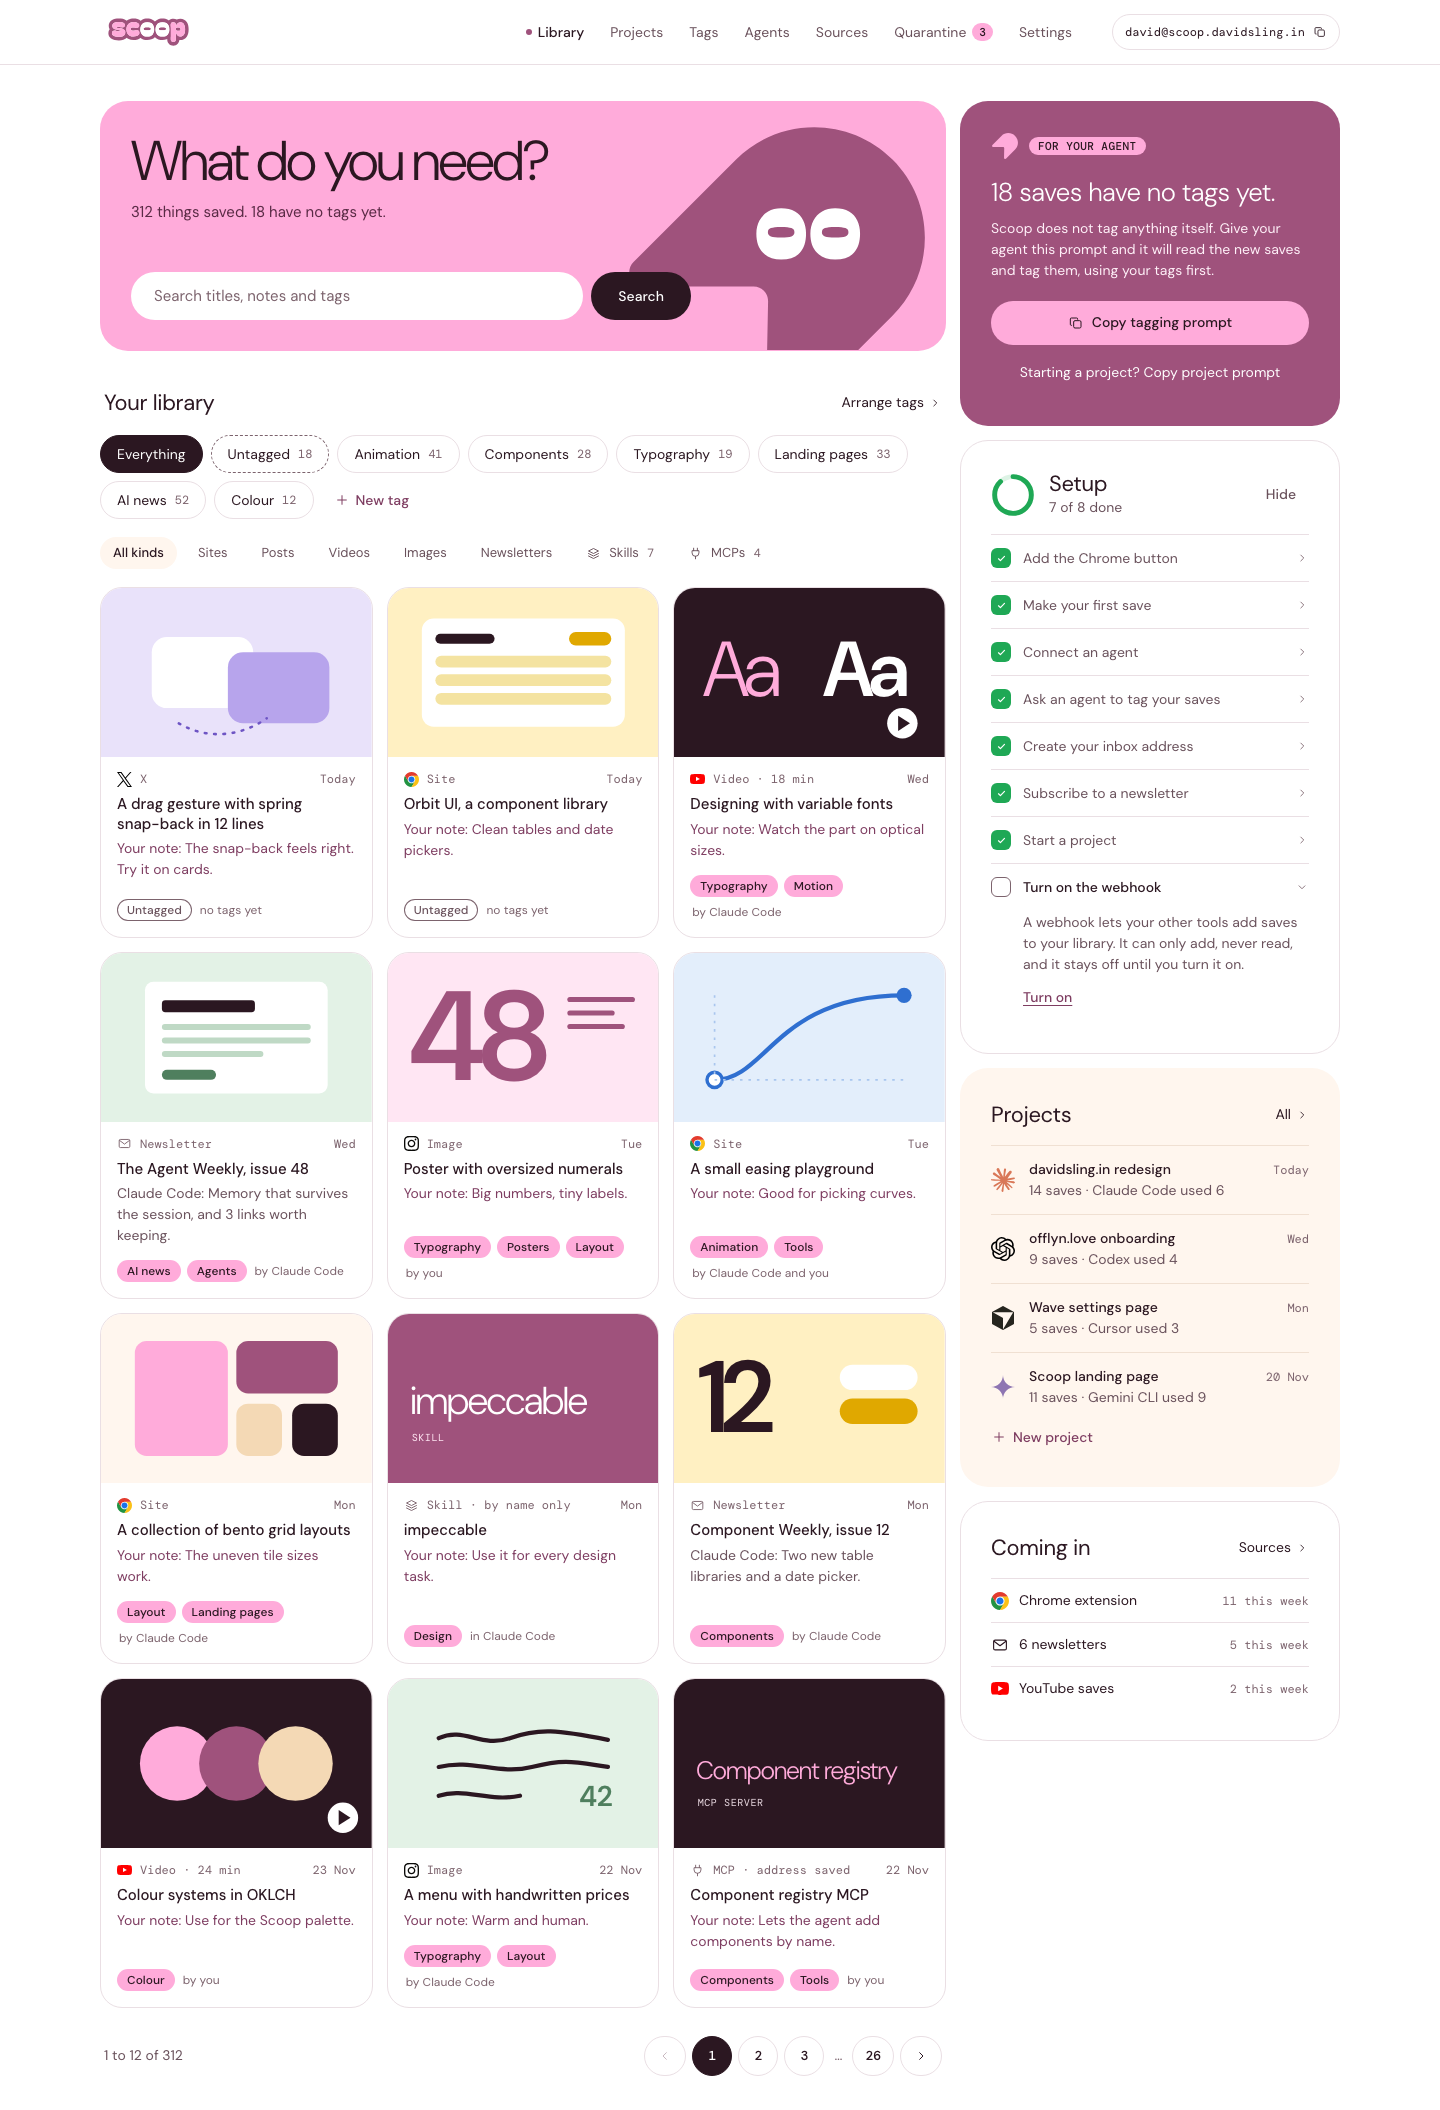
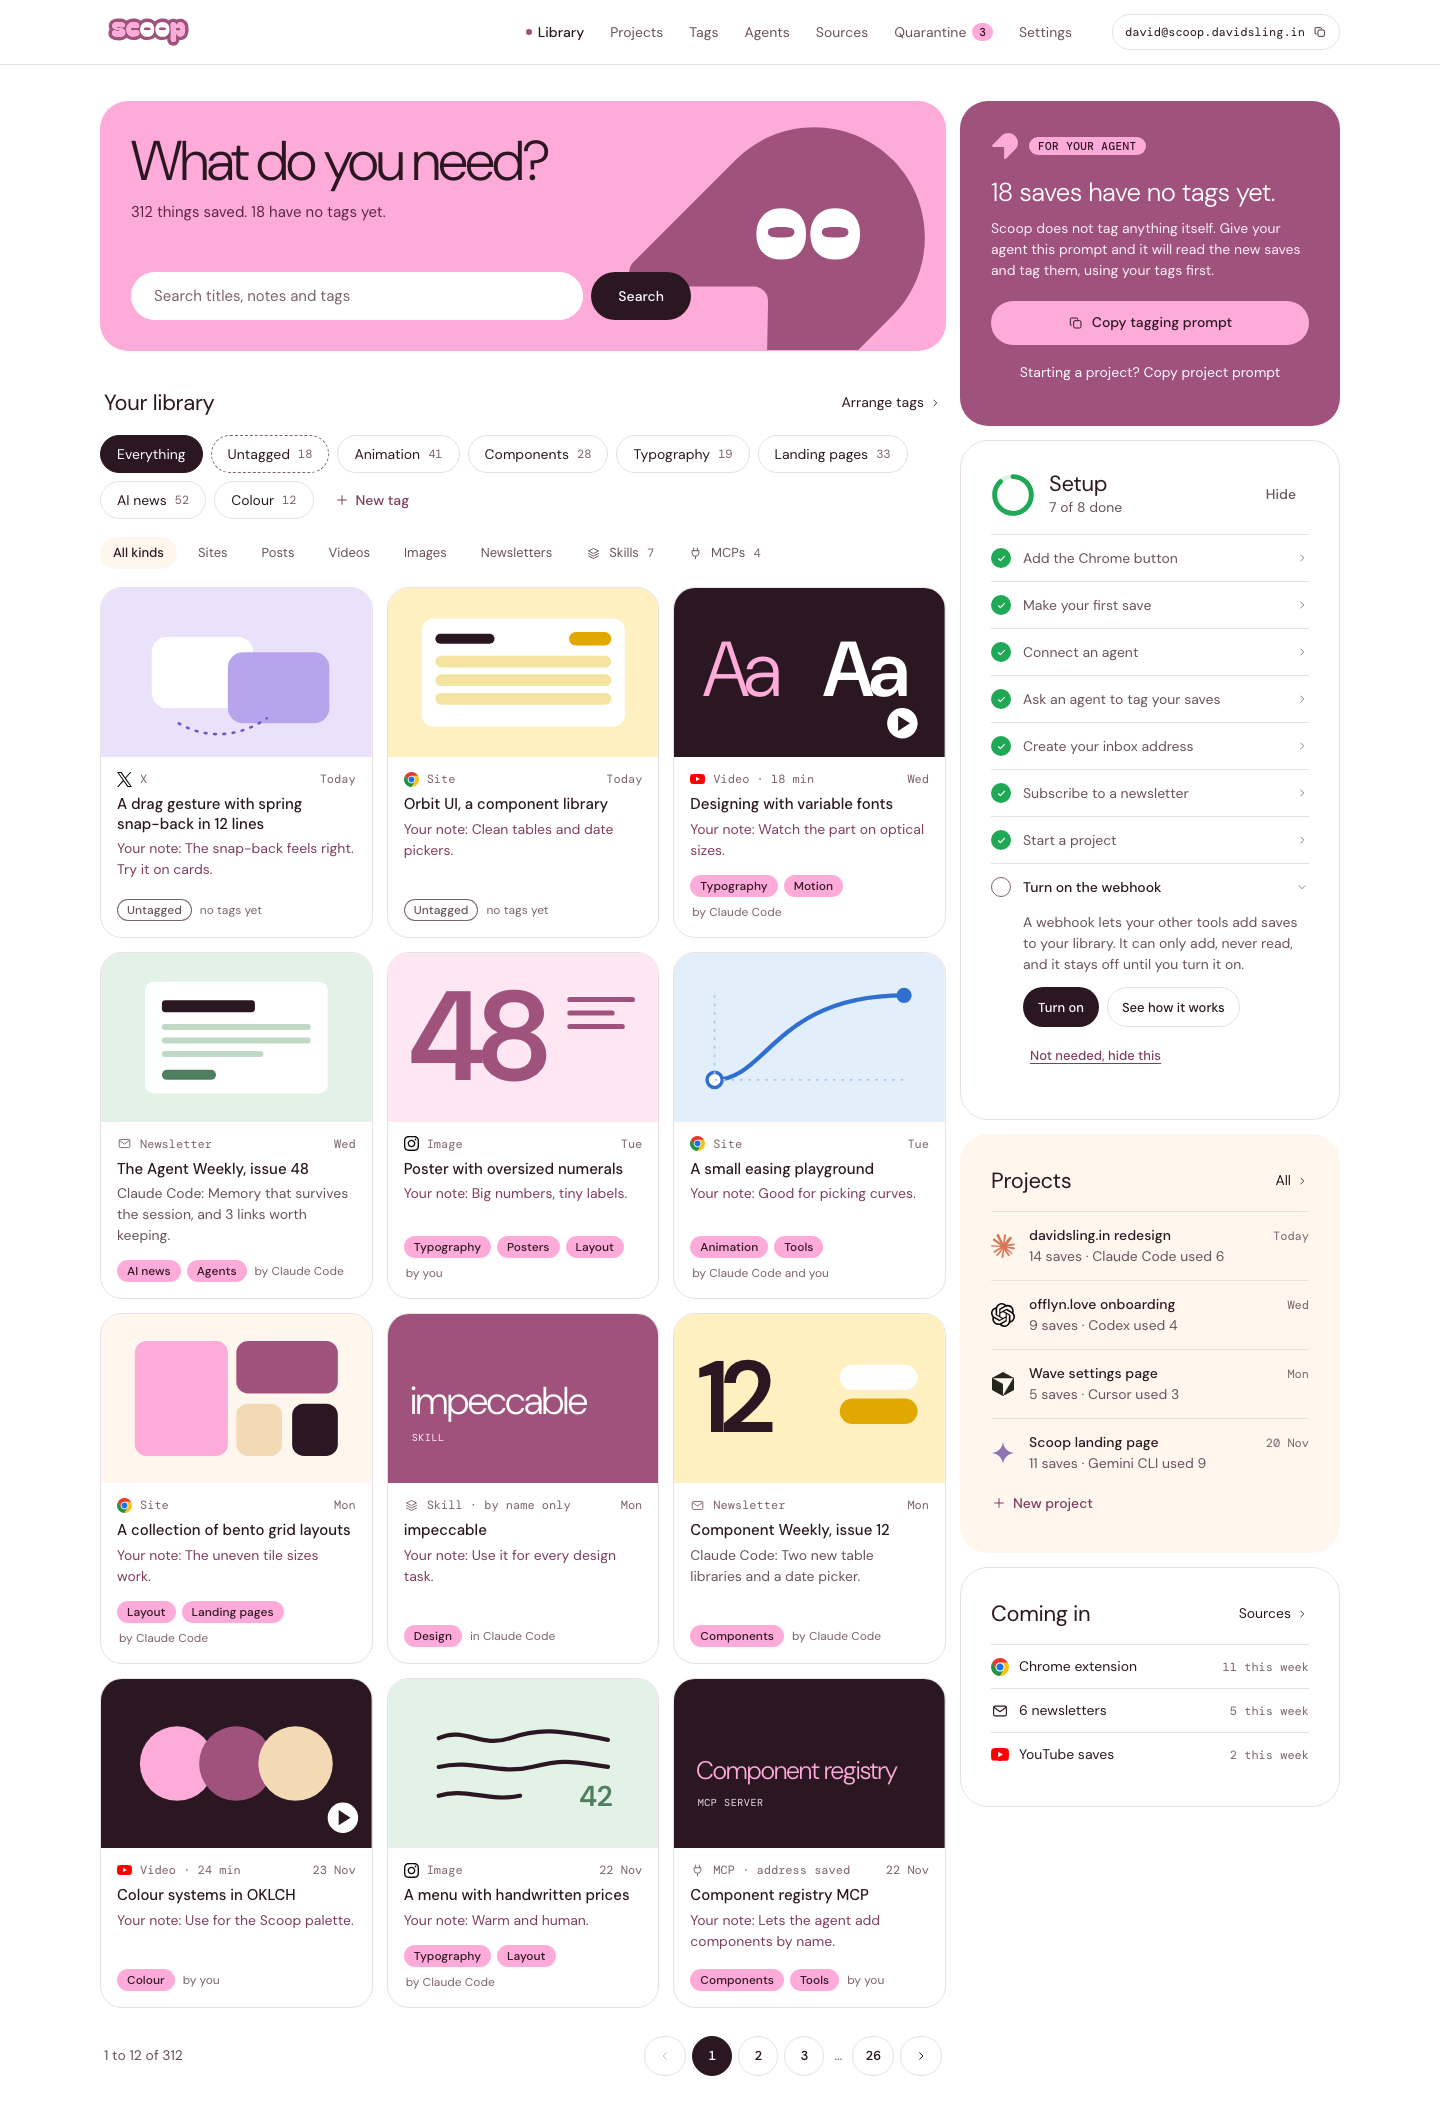
feat: add actions to the open setup rows and round the check marks

Changed region(s): [[0.6875, 0.5237, 0.8438, 0.8318], [0.8438, 0.7393, 0.9062, 0.8318], [0.6875, 0.4621, 0.7812, 0.4929]]

diff --git a/mockups/dashboard.html b/mockups/dashboard.html
@@ -129,14 +129,14 @@
           <button class="btn text" type="button">Hide</button>
         </div>
         <ul class="su">
-          <li class="ok"><details><summary><span class="tk"><svg class="i"><use href="#i-tick"/></svg></span><span class="lb">Add the Chrome button</span><svg class="i chev"><use href="#i-chev"/></svg></summary><div class="more"><p>The Scoop button is in your browser. It reads a page only when you click it, and it can add to your library but never read it.</p><a href="sources.html">Open Sources</a></div></details></li>
-          <li class="ok"><details><summary><span class="tk"><svg class="i"><use href="#i-tick"/></svg></span><span class="lb">Make your first save</span><svg class="i chev"><use href="#i-chev"/></svg></summary><div class="more"><p>You have saved 312 things. The latest was today, from X.</p></div></details></li>
-          <li class="ok"><details><summary><span class="tk"><svg class="i"><use href="#i-tick"/></svg></span><span class="lb">Connect an agent</span><svg class="i chev"><use href="#i-chev"/></svg></summary><div class="more"><p>Claude Code, Codex, Cursor and Gemini CLI can search, read and organise your library. Each has its own access.</p><a href="agents.html">Manage agents</a></div></details></li>
-          <li class="ok"><details><summary><span class="tk"><svg class="i"><use href="#i-tick"/></svg></span><span class="lb">Ask an agent to tag your saves</span><svg class="i chev"><use href="#i-chev"/></svg></summary><div class="more"><p>294 of your 312 saves have tags. The other 18 are waiting for an agent or for you.</p><a href="tags.html">Arrange tags</a></div></details></li>
-          <li class="ok"><details><summary><span class="tk"><svg class="i"><use href="#i-tick"/></svg></span><span class="lb">Create your inbox address</span><svg class="i chev"><use href="#i-chev"/></svg></summary><div class="more"><p><span class="mono">david@scoop.davidsling.in</span><br>Anything sent here from a sender you allow lands in your library.</p><a href="sources.html">Open Sources</a></div></details></li>
-          <li class="ok"><details><summary><span class="tk"><svg class="i"><use href="#i-tick"/></svg></span><span class="lb">Subscribe to a newsletter</span><svg class="i chev"><use href="#i-chev"/></svg></summary><div class="more"><p>Six newsletters send to your inbox address. 5 issues arrived this week.</p><a href="sources.html">See newsletters</a></div></details></li>
-          <li class="ok"><details><summary><span class="tk"><svg class="i"><use href="#i-tick"/></svg></span><span class="lb">Start a project</span><svg class="i chev"><use href="#i-chev"/></svg></summary><div class="more"><p>Your agents have used saves in 4 projects. The latest is davidsling.in redesign.</p><a href="projects.html">All projects</a></div></details></li>
-          <li class="todo"><details open><summary><span class="tk"></span><span class="lb">Turn on the webhook</span><svg class="i chev"><use href="#i-chev"/></svg></summary><div class="more"><p>A webhook lets your other tools add saves to your library. It can only add, never read, and it stays off until you turn it on.</p><a href="sources.html">Turn on</a></div></details></li>
+          <li class="ok"><details><summary><span class="tk"><svg class="i"><use href="#i-tick"/></svg></span><span class="lb">Add the Chrome button</span><svg class="i chev"><use href="#i-chev"/></svg></summary><div class="more"><p>The Scoop button is in your browser. It reads a page only when you click it, and it can add to your library but never read it.</p><div class="acts"><button class="btn outline sm" type="button">Paste a link instead</button><a class="btn outline sm" href="sources.html">Add it to another browser</a><a class="btn text sm" href="sources.html">Open Sources</a></div></div></details></li>
+          <li class="ok"><details><summary><span class="tk"><svg class="i"><use href="#i-tick"/></svg></span><span class="lb">Make your first save</span><svg class="i chev"><use href="#i-chev"/></svg></summary><div class="more"><p>You have saved 312 things. The latest was today, from X.</p><div class="acts"><button class="btn outline sm" type="button"><svg class="i"><use href="#i-plus"/></svg>Paste a link</button><a class="btn text sm" href="#">See your latest saves</a></div></div></details></li>
+          <li class="ok"><details><summary><span class="tk"><svg class="i"><use href="#i-tick"/></svg></span><span class="lb">Connect an agent</span><svg class="i chev"><use href="#i-chev"/></svg></summary><div class="more"><p>Claude Code, Codex, Cursor and Gemini CLI can search, read and organise your library. Each has its own access.</p><div class="acts"><a class="btn outline sm" href="agents.html"><svg class="i"><use href="#i-plus"/></svg>Connect another agent</a><button class="btn outline sm" type="button"><svg class="i"><use href="#i-copy"/></svg>Copy MCP address</button><a class="btn text sm" href="agents.html">Manage agents</a></div></div></details></li>
+          <li class="ok"><details><summary><span class="tk"><svg class="i"><use href="#i-tick"/></svg></span><span class="lb">Ask an agent to tag your saves</span><svg class="i chev"><use href="#i-chev"/></svg></summary><div class="more"><p>294 of your 312 saves have tags. The other 18 are waiting for an agent or for you.</p><div class="acts"><button class="btn outline sm" type="button"><svg class="i"><use href="#i-copy"/></svg>Copy tagging prompt</button><a class="btn outline sm" href="#">See the 18 untagged</a><a class="btn text sm" href="tags.html">Arrange tags</a></div></div></details></li>
+          <li class="ok"><details><summary><span class="tk"><svg class="i"><use href="#i-tick"/></svg></span><span class="lb">Create your inbox address</span><svg class="i chev"><use href="#i-chev"/></svg></summary><div class="more"><p><span class="mono">david@scoop.davidsling.in</span><br>Anything sent here from a sender you allow lands in your library.</p><div class="acts"><button class="btn outline sm" type="button"><svg class="i"><use href="#i-copy"/></svg>Copy address</button><a class="btn outline sm" href="settings.html">Change it</a><a class="btn text sm" href="sources.html">Open Sources</a></div></div></details></li>
+          <li class="ok"><details><summary><span class="tk"><svg class="i"><use href="#i-tick"/></svg></span><span class="lb">Subscribe to a newsletter</span><svg class="i chev"><use href="#i-chev"/></svg></summary><div class="more"><p>Six newsletters send to your inbox address. 5 issues arrived this week.</p><div class="acts"><button class="btn outline sm" type="button"><svg class="i"><use href="#i-copy"/></svg>Copy address</button><a class="btn outline sm" href="sources.html#quarantine">Review 3 in quarantine</a><a class="btn text sm" href="sources.html">See newsletters</a></div></div></details></li>
+          <li class="ok"><details><summary><span class="tk"><svg class="i"><use href="#i-tick"/></svg></span><span class="lb">Start a project</span><svg class="i chev"><use href="#i-chev"/></svg></summary><div class="more"><p>Your agents have used saves in 4 projects. The latest is davidsling.in redesign.</p><div class="acts"><a class="btn outline sm" href="projects.html"><svg class="i"><use href="#i-plus"/></svg>New project</a><button class="btn outline sm" type="button"><svg class="i"><use href="#i-copy"/></svg>Copy project prompt</button><a class="btn text sm" href="projects.html">All projects</a></div></div></details></li>
+          <li class="todo"><details open><summary><span class="tk"></span><span class="lb">Turn on the webhook</span><svg class="i chev"><use href="#i-chev"/></svg></summary><div class="more"><p>A webhook lets your other tools add saves to your library. It can only add, never read, and it stays off until you turn it on.</p><div class="acts"><a class="btn solid sm" href="sources.html">Turn on</a><a class="btn outline sm" href="sources.html">See how it works</a><button class="btn text sm" type="button">Not needed, hide this</button></div></div></details></li>
         </ul>
       </section>
 

diff --git a/mockups/app.css b/mockups/app.css
@@ -283,7 +283,7 @@ h2 { margin: 0; font-size: 22px; line-height: 1.2; font-weight: 400; letter-spac
 .su summary::-webkit-details-marker { display: none; }
 .su summary:hover { background: var(--cream); color: var(--ink); }
 .su summary:active { background: #F6E9DC; }
-.su .tk { display: grid; place-items: center; width: 20px; height: 20px; border-radius: 6px; background: #1FA855; color: #fff; flex: none; }
+.su .tk { display: grid; place-items: center; width: 20px; height: 20px; border-radius: 50%; background: #1FA855; color: #fff; flex: none; }
 .su .tk svg.i { width: 13px; height: 13px; }
 .su .t { margin-left: auto; font: 400 12px var(--mono); color: var(--ink-3); }
 .su .lb { flex: 1; min-width: 0; }
@@ -295,6 +295,9 @@ h2 { margin: 0; font-size: 22px; line-height: 1.2; font-weight: 400; letter-spac
 .su .more { padding: 2px 0 14px 32px; }
 .su .more p { margin: 0; color: var(--ink-2); }
 .su .more .mono { font: 500 13px var(--mono); color: var(--ink); }
-.su .more a { display: inline-flex; align-items: center; min-height: 44px; margin-bottom: -10px; font-weight: 500; color: var(--mauve-deep); text-decoration: underline; text-underline-offset: 3px; }
-.su .more a:hover { color: var(--ink); }
+.su .acts { display: flex; flex-wrap: wrap; align-items: center; gap: 8px; margin-top: 12px; }
+.su .btn.sm { min-height: 40px; padding: 0 14px; font-size: 13px; gap: 6px; }
+.su .btn.sm svg.i { width: 14px; height: 14px; }
+.su .btn.text.sm { padding: 0 6px; color: var(--mauve-deep); text-decoration: underline; text-underline-offset: 3px; }
+.su .btn.text.sm:hover { color: var(--ink); }
 @media (prefers-reduced-motion: reduce) { .su .chev { transition: none; } }
